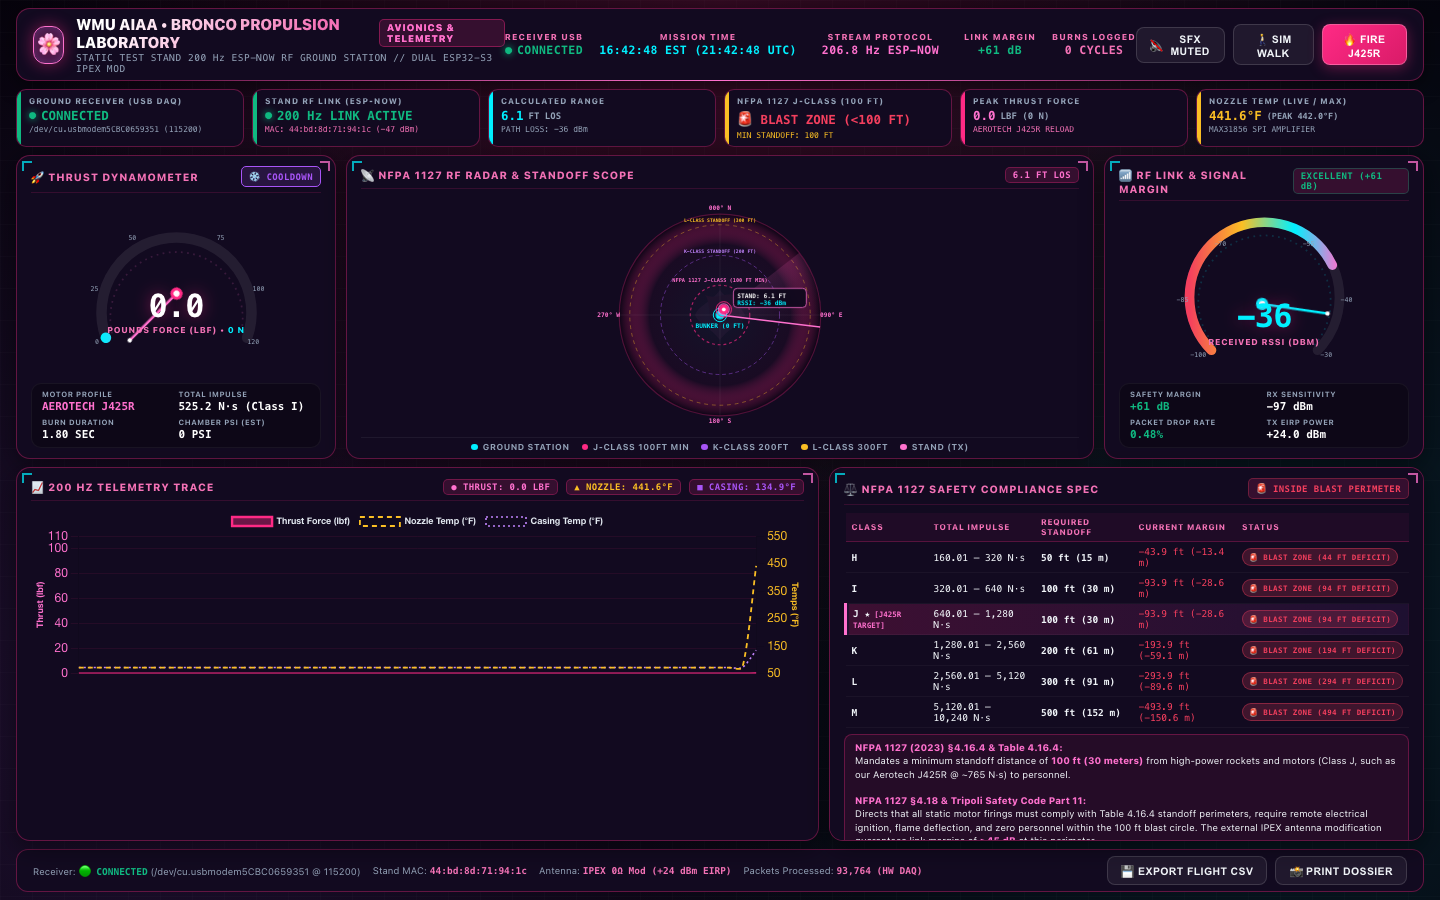
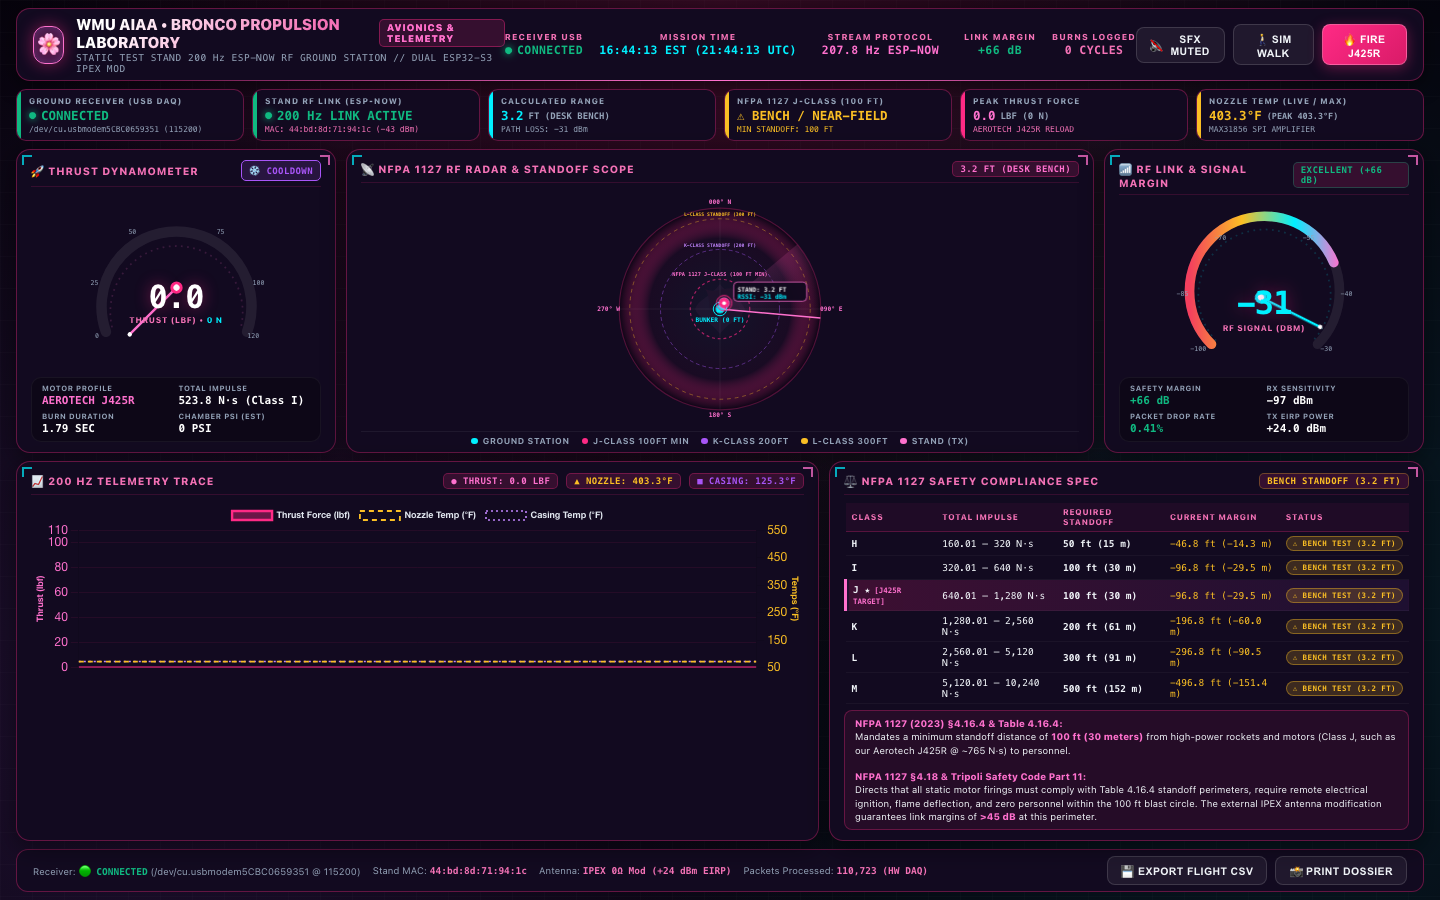
Refine dial units to aerospace standards and zero-clipping positioning

diff --git a/web/index.html b/web/index.html
@@ -418,7 +418,7 @@
 
     .gauge-center-text {
       position: absolute;
-      bottom: 16px;
+      bottom: 20px;
       left: 0;
       right: 0;
       margin: 0 auto;
@@ -446,12 +446,12 @@
     }
 
     .gauge-unit {
-      font-size: 8.5px;
+      font-size: 8px;
       font-weight: 800;
-      letter-spacing: 0.6px;
+      letter-spacing: 0.5px;
       text-transform: uppercase;
       color: var(--pink-soft);
-      margin-top: 3px;
+      margin-top: 2px;
       white-space: nowrap;
     }
 
@@ -833,7 +833,7 @@
         <!-- Digital Center Readout -->
         <div class="gauge-center-text">
           <div class="gauge-val-huge" id="valThrust">0.0</div>
-          <div class="gauge-unit">POUNDS FORCE (LBF) • <span id="valThrustNewtons" style="color: var(--cyan-cyber);">0 N</span></div>
+          <div class="gauge-unit">THRUST (LBF) • <span id="valThrustNewtons" style="color: var(--cyan-cyber);">0 N</span></div>
         </div>
       </div>
 
@@ -1006,9 +1006,9 @@
         </svg>
 
         <!-- Digital RF Center Readout -->
-        <div class="gauge-center-text" style="bottom: 12px;">
+        <div class="gauge-center-text">
           <div class="gauge-val-huge" id="valRssi" style="color: var(--cyan-cyber); margin-bottom: 2px;">-27</div>
-          <div class="gauge-unit">RECEIVED RSSI (DBM)</div>
+          <div class="gauge-unit">RF SIGNAL (dBm)</div>
         </div>
       </div>
 
